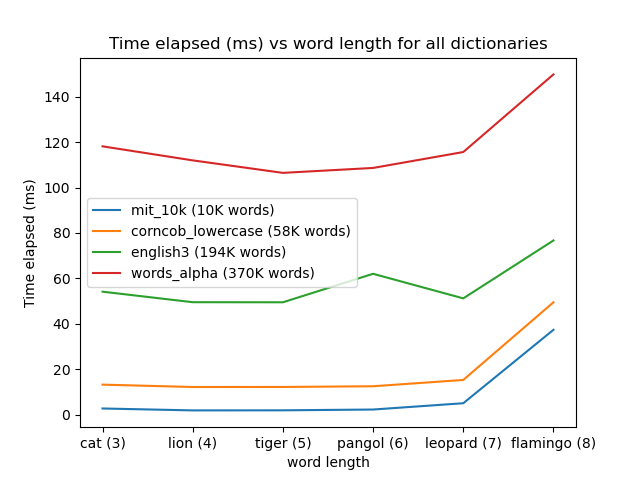
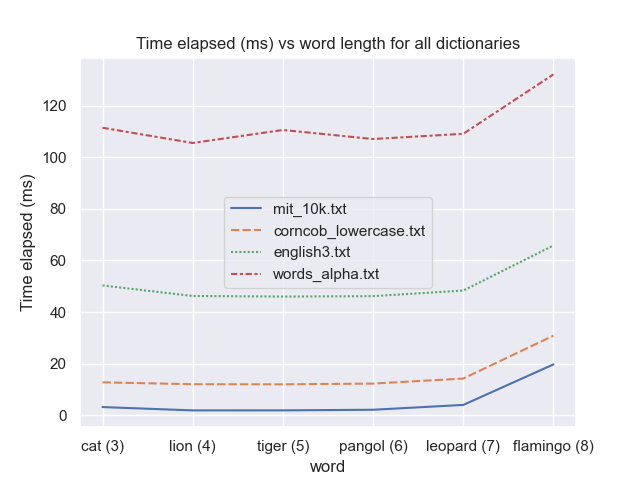
Remove all sub-anagram storage and complete README

diff --git a/scripts/sub_anagrams.py b/scripts/sub_anagrams.py
@@ -1,100 +1,39 @@
 """
-Compute all possible sub-anagrams and valid sub-anagrams from the dictionary.
+Return valid sub-anagrams from the dictionary.
 """
 
 from itertools import permutations
-from typing import Any
-
-class computeSubAnagrams:
-    def __init__(self, dictionary: set[str], word: str) -> None:
-        """
-        DESC: Helper class containing methods to return sub-anagrams for a word.
-
-        INPUTS: 
-        word (type str): Input word/string.
-        dictionary (type set[str]): Word list/dictionary.
-        """
-        self.word = word
-        self.dictionary = dictionary
-        self._allSubAnagrams = set()
-        self._validSubAnagrams = set()
     
-    def _all_sub_anagrams(self) -> None:
-        """
-        DESC: Computes the sub-anagrams for the given word.
+def sub_anagrams(dictionary: set[str], word: str) -> None:
+    """
+    DESC: Returns the valid sub-anagrams by computing each possible sub-anagram and checking it in the dictionary.
 
-        EXAMPLE: For input word 'dog', permutations of all anagrams are 
-        {'', 'dg', 'odg', 'dgo', 'god', 'g', 'do', 'gdo', 'ogd', 'gd', 'od', 'o', 'd', 'og', 'go', 'dog'}.
-        """
+    INPUTS: 
+    dictionary (type set[str]): Word list/dictionary.
+    word (type str): Input word/string.
 
-        # Permute the word by taking 0,1,2...n letters at a time.
-        for i in range(len(self.word)+1):
-            perms = permutations(self.word, i)
+    OUTPUTS:
+    subAnagrams (type set[str]): Valid sub-anagrams of the input word that are present in the given dictionary.
 
-            # Append the permutations to the list.
-            for perm in perms:
-                self._allSubAnagrams.add(''.join(perm))
-
-    def _valid_sub_anagrams(self) -> None:
-        """
-        DESC: Computes the valid sub-anagrams by searching each sub-anagram in the dictionary.
-
-        OUTPUTS:
-        validSubAnagrams (type set[str]): Valid sub-anagrams of the input word that are present in the chosen dictionary.
-
-        EXAMPLE: For input {'', 'dg', 'odg', 'dgo', 'god', 'g', 'do', 'gdo', 'ogd', 'gd', 'od', 'o', 'd', 'og', 'go', 'dog'},
-        valid sub-anagrams are {'do', 'dog', 'go', 'god'}.
-        """
-
-        # Search each possible sub-anagram in dictionary, and append if found.
-        for subAnagram in self._allSubAnagrams:
-            if subAnagram in self.dictionary:
-                self._validSubAnagrams.add(subAnagram)
-        
-        return self._validSubAnagrams
-
-    def compute(self) -> set[str]:
-        """
-        DESC: Returns the valid sub-anagrams by calling required methods.
-
-        OUTPUTS:
-        (type set[str]): Valid sub-anagrams of the input word that are present in the dictionary.
-
-        EXAMPLE: For input word 'dog', valid sub-anagrams are {'do', 'dog', 'go', 'god'}.
-        """
-        self._all_sub_anagrams()
-        return self._valid_sub_anagrams()
+    EXAMPLE: For input word 'dog' and dictionary 'corncob_lowercase.txt', output is {'do', 'dog', 'go', 'god'}.
+    """
     
-    def size(self, identifier: str = 'valid') -> int:
-        """
-        DESC: Returns the number of all sub-anagrams or only valid sub-anagrams.
-
-        INPUT:
-        indentifier (type str): 'all' or 'valid' (default).
-        
-        OUTPUTS:
-        (type int): Number of sub-anagrams for chosen identifier.
-        """
-        assert identifier in ['all', 'valid'], AssertionError(f"identifier should be 'all' or 'valid', got:{identifier}")
-        
-        if identifier == 'all':
-            return len(self._allSubAnagrams) 
-        
-        return len(self._validSubAnagrams)
+    _validSubAnagrams = set()    # Store valid sub-anagrams here
     
-    def get_sub_anagrams(self, identifier: str = 'valid') -> set[str]:
-        """
-        DESC: Returns all sub-anagrams or only valid sub-anagrams.
+    # No. of all possible permutations/anagrams = floor(n! x e)
+    # https://math.stackexchange.com/questions/161314/what-is-the-sum-of-following-permutation-series-np0-np1-np2-cdots-npn
+    _len_allSubAnagrams = 0
+    
+    # Permute the word by taking 0,1,2...n letters at a time.
+    for i in range(len(word)+1):
+        perms = permutations(word, i)
 
-        INPUT:
-        indentifier (type str): 'all' or 'valid' (default).
-        
-        OUTPUTS:
-        (type set[str]): Sub-anagrams for chosen identifier.
-        """
-        assert identifier in ['all', 'valid'], AssertionError(f"identifier should be 'all' or 'valid', got:{identifier}")
-        
-        if identifier == 'all':
-            return self._allSubAnagrams
-        
-        return self._validSubAnagrams
+        # Store permutations only if they are in dictionary.
+        for perm in perms:
+            _len_allSubAnagrams += 1
+            
+            subAnagram =  ''.join(perm)
+            if subAnagram in dictionary:
+                _validSubAnagrams.add(subAnagram)
+    
+    return _validSubAnagrams, len(_validSubAnagrams), _len_allSubAnagrams

diff --git a/tests.py b/tests.py
@@ -1,7 +1,8 @@
 from utils import *
 from scripts import *
 from time import time
-
+from itertools import product
+import pandas as pd
 
 def main(dictionaryName: str, word: str) -> dict:
     """
@@ -11,20 +12,22 @@ def main(dictionaryName: str, word: str) -> dict:
     INPUTS: 
     dictionaryName (type str): Dictionary filename.
     word (type str): Input word/string.
+
+    OUTPUTS:
+    stat (type dict): Dictionary of various stats to evaluate performance against.
     """
     # Load and save dictionary
     dictionary = load_dict(dictionaryName)                 
 
-    # Create an object to compute anagrams.
-    jumbleSolver = computeSubAnagrams(dictionary, word)
-    jumbleSolver.compute()
+    # Get valid sub anagrams, and additional data
+    _, lenValid, lenAll = sub_anagrams(dictionary, word)
 
     # Return stats for current test
     stat = {
         'wordLen': len(word),
         'dictLen': len(dictionary),
-        'allLen': jumbleSolver.size('all'),
-        'validLen': jumbleSolver.size('valid')
+        'allLen': lenAll,
+        'validLen': lenValid
     }
     return stat
 
@@ -32,18 +35,31 @@ if __name__=='__main__':
 
     dictionaryNames = ['mit_10k.txt', 'corncob_lowercase.txt', 'english3.txt', 'words_alpha.txt']
     words = ['cat', 'lion', 'tiger', 'pangol', 'leopard', 'flamingo']
+    attributes = ['wordLen', 'dictLen', 'validLen', 'allLen', 'timeElapsed']
+    
+    # Store all stats here
+    stats = pd.DataFrame(
+        columns=['dictionaryName', 'word', *attributes], 
+        index=pd.MultiIndex.from_tuples(product(dictionaryNames, words))
+    )
 
-    stats = {}  # Store all stats here
+    for i, prod in enumerate(product(dictionaryNames, words)):
+        stats.loc[prod, ['dictionaryName', 'word']] = prod
 
-    # Compute stats for all test cases
+
+    # Compute and store stats for all test cases in the DataFrame
     for dictionaryName in dictionaryNames:
-        stats[dictionaryName] = {}
-
         for word in words:
+
             tic = time()
-            stats[dictionaryName][word] = main(dictionaryName, word)
-            stats[dictionaryName][word]['timeElapsed'] = 1000*(time()-tic)
+            stat = main(dictionaryName, word)
+            stats.loc[(dictionaryName, word), 'timeElapsed'] = 1000*(time()-tic)
+            
+            for attr in attributes:
+                if attr != 'timeElapsed':
+                    stats.loc[(dictionaryName, word), attr] = stat[attr]
 
     # Plot results
     plot_results(stats, dictionaryNames, words, 'timeElapsed')
     plot_results(stats, dictionaryNames, words, 'validLen')
+ 

diff --git a/utils/plot_utils.py b/utils/plot_utils.py
@@ -1,0 +1,39 @@
+"""
+Utilities for plotting.
+"""    
+import matplotlib.pyplot as plt
+import pandas as pd
+import seaborn as sns
+sns.set_theme()
+
+def plot_results(stats: pd.DataFrame, dictionaryNames: list[str], words: list[str], attr: str) -> None:
+    """
+    DESC: Plot results.
+
+    INPUTS:
+    stats (type pd.DataFrame): Pandas DataFrame of all data.
+    dictionaryNames (type list[str]): List of all dictionary names.
+    words (type list[str]): List of all words.
+    attr (type str): Attribute to choose from ['wordLen', 'dictLen', 'validLen', 'allLen', 'timeElapsed'].
+    """
+    # Create title mapping with attr for plotting
+    titles = {
+        'wordLen': 'word length',
+        'dictLen': 'dictionary length',
+        'allLen': '# of all possible sub-anagrams',
+        'validLen': '# of valid sub-anagrams',
+        'timeElapsed': 'Time elapsed (ms)'
+    }
+
+    data = stats.pivot(index="word", columns='dictionaryName', values=attr).loc[words, dictionaryNames]
+    sns.lineplot(data)
+    
+    # Custom xticks
+    xticks = [f'{word} ({len(word)})' for word in words]
+    
+    plt.ylabel(titles[attr])
+    plt.xticks(range(len(xticks)), xticks)
+    plt.title(f"{titles[attr]} vs {titles['wordLen']} for all dictionaries")
+    plt.legend()
+    plt.savefig(f'./results/{attr}.png')
+    plt.show(block=True)

diff --git a/jumble_solver.py b/jumble_solver.py
@@ -15,13 +15,11 @@ def main(dictionaryName: str, word: str) -> None:
     # Load and save dictionary
     dictionary = load_dict(dictionaryName)                 
 
-    # Create an object to compute anagrams.
-    jumbleSolver = computeSubAnagrams(dictionary, word)
-    validSubAnagrams = jumbleSolver.compute()
+    # Get valid sub anagrams, and additional data
+    validSubAnagrams, lenValid, lenAll = sub_anagrams(dictionary, word)
     
-    print(f"# of all possible sub-anagrams:\t{jumbleSolver.size('all')}")
-    # print('Sub-anagrams are:',jumbleSolver.get_sub_anagrams('all'))   # Uncomment to print all sub-anagrams (could be verbose)
-    print(f"# of valid sub-anagrams:\t{jumbleSolver.size('valid')}")
+    print(f"# of all possible sub-anagrams:\t{lenAll}")
+    print(f"# of valid sub-anagrams:\t{lenValid}")
     print('Valid sub-anagrams are:\t\t',validSubAnagrams)
 
 

diff --git a/utils/__init__.py b/utils/__init__.py
@@ -1,3 +1,3 @@
 from .utils import *
 from .file_utils import *
-from .test_utils import *
+from .plot_utils import *

diff --git a/README.md b/README.md
@@ -34,7 +34,7 @@ Running either of the two commands above would give, this output.
     Sub-anagrams found:     16
     Valid sub-anagrams:     4
     Valid sub anagrams are:  {'do', 'dog', 'go', 'god'}
-    Time elapsed:           1.52 ms
+    Time elapsed:           15.77 ms
     ------------------------------------------------------------------------------------
 
 ### Testing
@@ -66,37 +66,64 @@ To run the tests and view plots, run
 4. The sub-anagrams are also stored as hashsets. Thus even if input word has duplicate alphabets, the sub-anagrams are unique.
 5. Search takes $O(1)$ complexity on average due to the `set` inplementation.
 
-## Algorithm and complexity analysis
+## Algorithm
+The **algorithm** is as follows:
+
+1. Check if the dictionary exists and the input words is valid.
+2. Read the dictionary and store it as a set,
+3. Permute the sub-anagrams and check if it exists in the dictionary. If yes, store it in another set.
+4. Return the set of all valid sub-anagrams.
+
 I used Python's hashset `set()` for this implementation. Insertion in both `set()` and `List[]` take $O(1)$ time. However, the current implementation (using `set()`) improves upon the previous build (using `List[]` and binary search) majorly due to two factors,
 
 1. Search in a `set()` takes $O(1)$ time, and it is not required to be sorted. In contrast, binary-search in a sorted `List[]` takes $O(\log m)$ time, and the sorting (if dictionary is unsorted) itself takes $O(m\log m)$ time. Both end up taking the same space $O(m)$.
-2. If the input word has repeated characters, there would be duplicate permutations when adding in a `List[]`. Rather than trying to remove duplicates seperately, adding elements in a `set()` ensures that no duplicates are added. Both methods take $O(1)$ time to append each element, but we achieve duplicate removal as a bonus by using `set()`.
+2. If the input word has repeated characters, there would be duplicate permutations when adding in a `List[]`. Rather than trying to remove duplicates separately, adding elements in a `set()` ensures that no duplicates are added. Both methods take $O(1)$ time to append each element, but we achieve duplicate removal as a bonus by using `set()`.
 
+## Complexity analysis
 If dictionary has $m$ words and input word has $n$ characters, then 
 - **Creating dictionary**: Time: $O(m)$, Space: $O(m)$
     - Traversal over dictionary.txt file: $O(m)$
     - Adding to set: $O(1)$ for each element in dictionary
-    - **Total time**: $O(m \times 1) = O(m)$
+    - **Total time**: $O(m)$
     - **Total space**: $O(m)$
-- **Computing all possible sub-anagrams**:Time: $O(\lfloor n! \times e\rfloor)$, Space: $O(\lfloor n! \times e\rfloor)$
+- **Computing all possible sub-anagrams**:Time: $O(\lfloor n! \times e\rfloor)$, Space: $0$
     - Permuting _r_ letters at a time: $O({}^n P_r)$
     - Adding to set: $O(1)$ for each element
     - **Total time**: $O({}^n P_n + {}^n P_{n-1} + \cdots {}^n P_1 + {}^n P_0) = O(\sum_{r=0}^n {}^n P_r) = O(\lfloor n! \times e\rfloor)$. See this [link](https://math.stackexchange.com/questions/161314/what-is-the-sum-of-following-permutation-series-np0-np1-np2-cdots-npn) for the derivation.
-    - **Total space**: $O(\lfloor n! \times e\rfloor)$. 
+    - **Total space**: $0$, since `permutations` from `itertools` uses `yield` to return values, so the values are not stored at the same time. Also we are only storing the words that have been found in the dictionary. This happens in the search step. 
 - **Search for valid sub-anagrams**: Time: $O(1)$, Space: $O(k)$ where $k$ is the number of valid matches in the dictionary.
     - Search for a sub-anagram in set of words (dictionary): $O(1)$
     - **Total time**: $O(1)$
     - **Total space**: $O(k)$
 
 Thus given $m$ words in the dictionary, input word of length $n$, and $k$ sub-anagram matches in the dictionary, we have
-| Step # 	| Step description                    	| Time complexity                               	| Space complexity                              	|
-|--------	|-------------------------------------	|-----------------------------------------------	|-----------------------------------------------	|
-| 1      	| Creating dictionary                 	| $O(m)$                                        	| $O(m)$                                        	|
-| 2      	| Computing all possible sub-anagrams 	| $O(\lfloor n! \times e\rfloor)$               	| $O(\lfloor n! \times e\rfloor)$               	|
-| 3      	| Search for valid sub-anagrams       	| $O(1)$                                        	| $O(k)$                                        	|
-|        	| **Total**                           	| $O(m) + O(\lfloor n! \times e\rfloor) + O(1)$ 	| $O(m) + O(\lfloor n! \times e\rfloor) + O(k)$ 	|
+| Step # 	| Step description                    	| Time complexity                        	| Space complexity 	|
+|--------	|-------------------------------------	|----------------------------------------	|------------------	|
+| 1      	| Creating dictionary                 	| $O(m)$                                 	| $O(m)$           	|
+| 2      	| Computing all possible sub-anagrams 	| $O(\lfloor n! \times e\rfloor)$        	| $0$              	|
+| 3      	| Search for valid sub-anagrams       	| $O(1)$                                 	| $O(k)$           	|
+|        	| **Total**                           	| $O(m) + O(\lfloor n! \times e\rfloor)$ 	| $O(m+k)$         	|
 
+The total time complexity has a peculiarity, where the dominant term can either be the length of the dictionary $O(m)$ or the length of the input word $O(\lfloor n! \times e\rfloor)$, which would determine the bottleneck.
 
+| $n$ 	| $O(\lfloor n! \times e\rfloor)$ 	| Compared to $O(m)$                                                                                                                   	|
+|-----	|---------------------------------	|--------------------------------------------------------------------------------------------------------------------------------------	|
+| 1   	| 2                               	| Computation time for sub-anagrams < creating dictionary                                                                              	|
+| 2   	| 5                               	| Computation time for sub-anagrams < creating dictionary                                                                              	|
+| 3   	| 16                              	| Computation time for sub-anagrams < creating dictionary                                                                              	|
+| 4   	| 65                              	| Computation time for sub-anagrams < creating dictionary                                                                              	|
+| 5   	| 326                             	| Computation time for sub-anagrams < creating dictionary                                                                              	|
+| 6   	| 1957                            	| Computation time for sub-anagrams < creating dictionary                                                                              	|
+| 7   	| 13700                           	| Computation time for sub-anagrams $\approx$ creating `mit_10k.txt`. Other dictionaries are still the bottleneck.                     	|
+| 8   	| 109601                          	| Computation time for sub-anagrams > creating `mit_10k.txt` and `corncob_lowercase.txt`. Other dictionaries are still the bottleneck. 	|
+| 9   	| 986410                          	| Computation time for sub-anagrams > creating all dictionaries. From $n \geq 9$ onwards, sub-anagram computation is the bottleneck.   	|
+
+Thus we see that for the given 4 dictionaries, 
+- For $n \leq 6$, the dictionary read/write is the bottleneck.  
+- For $n=\{7,8\}$, the bottleneck depends on which dictionary has been chosen.
+- For $n \geq 9$ sub-anagram computation is always the bottleneck.
+
+This analysis lets us focus on which process to prioritize and optimize. I believe that most words that we play with will be less than 9 characters in length. This means that we would benefit a lot by optimizing the dictionary read/write process into the working memory, rather than the sub-anagram computation.
 ## Results
 
 I chose the following dictionaries and words to compare and evaluate a comprehensive performance overview.
@@ -123,3 +150,4 @@ We also see a dramatic increase of the number of valid sub-anagrams with word le
 We can see that {'o', 'g', 'dg', 'og', 'gd'} are not actual words, and are hence not found in the `corncob_lowercase` dictionary, but are present in the `mit_10k` dictionary. This leads to many extraneous sub-anagrams. This problem only gets worse for longer words.
 ## Future functionality improvements
 1. If we have repeating characters in the input word, the duplicate permutations are currently computed before attempting to add into the `set()`. A further optimization could be to skip this computation itself.
+2. We could read the input word and only load corresponding sections from the dictionary. Eg, for input 'dog', we can only load words that start with 'd', 'o' or 'g'. This would reduce the space complexity manyfold, but introduce multiple checks for each word in the dictionary ($O(3m)$ in this case: $m$ words being checked thrice against 'd', 'o' and 'g'). Thus there is a tradeoff between space and time complexity. And we already discussed that for $n \leq 6$, and for some cases of $n=\{7,8\}$, $O(m)$ is dominating. Thus $O(3m)$ would be a even bigger hit to the runtime.
